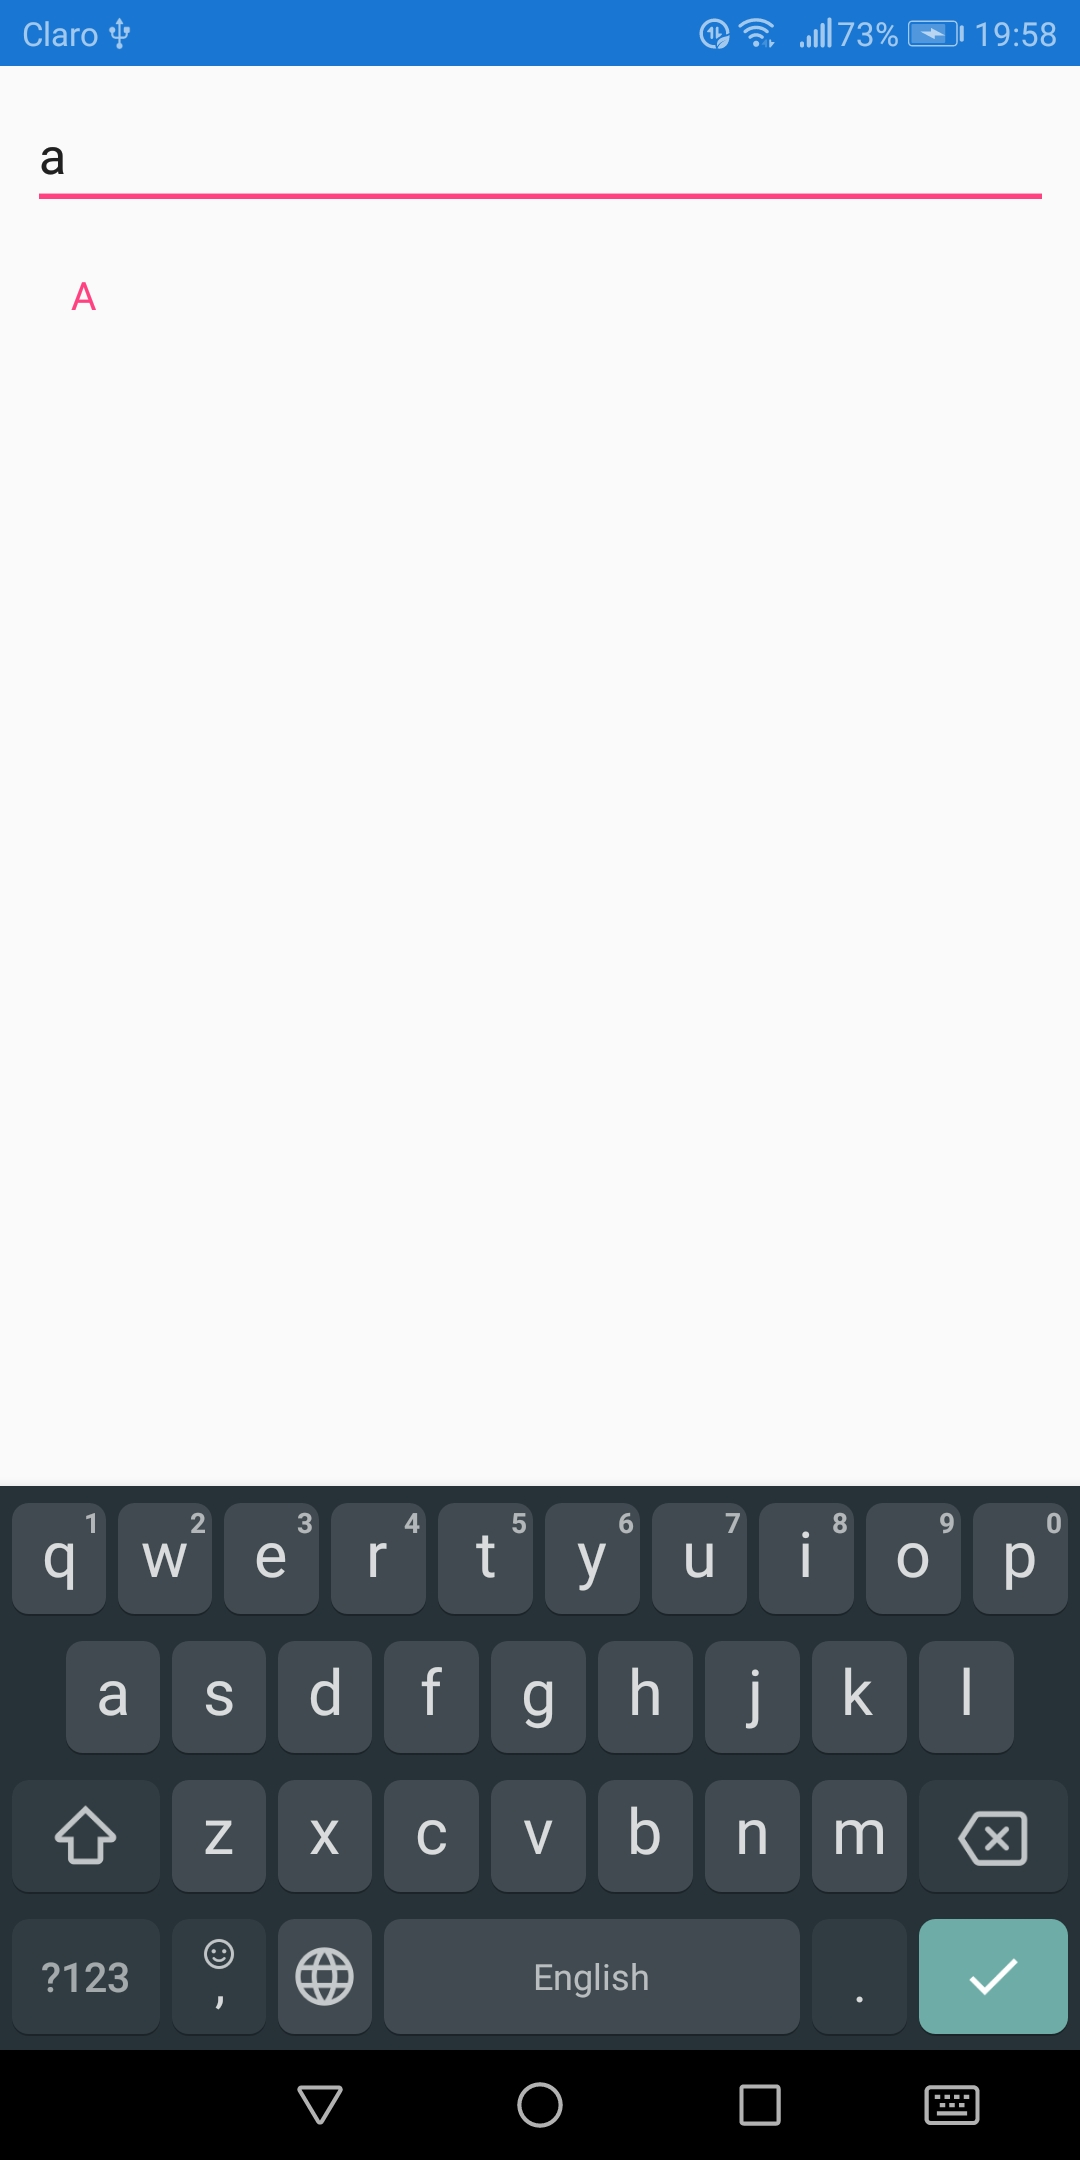
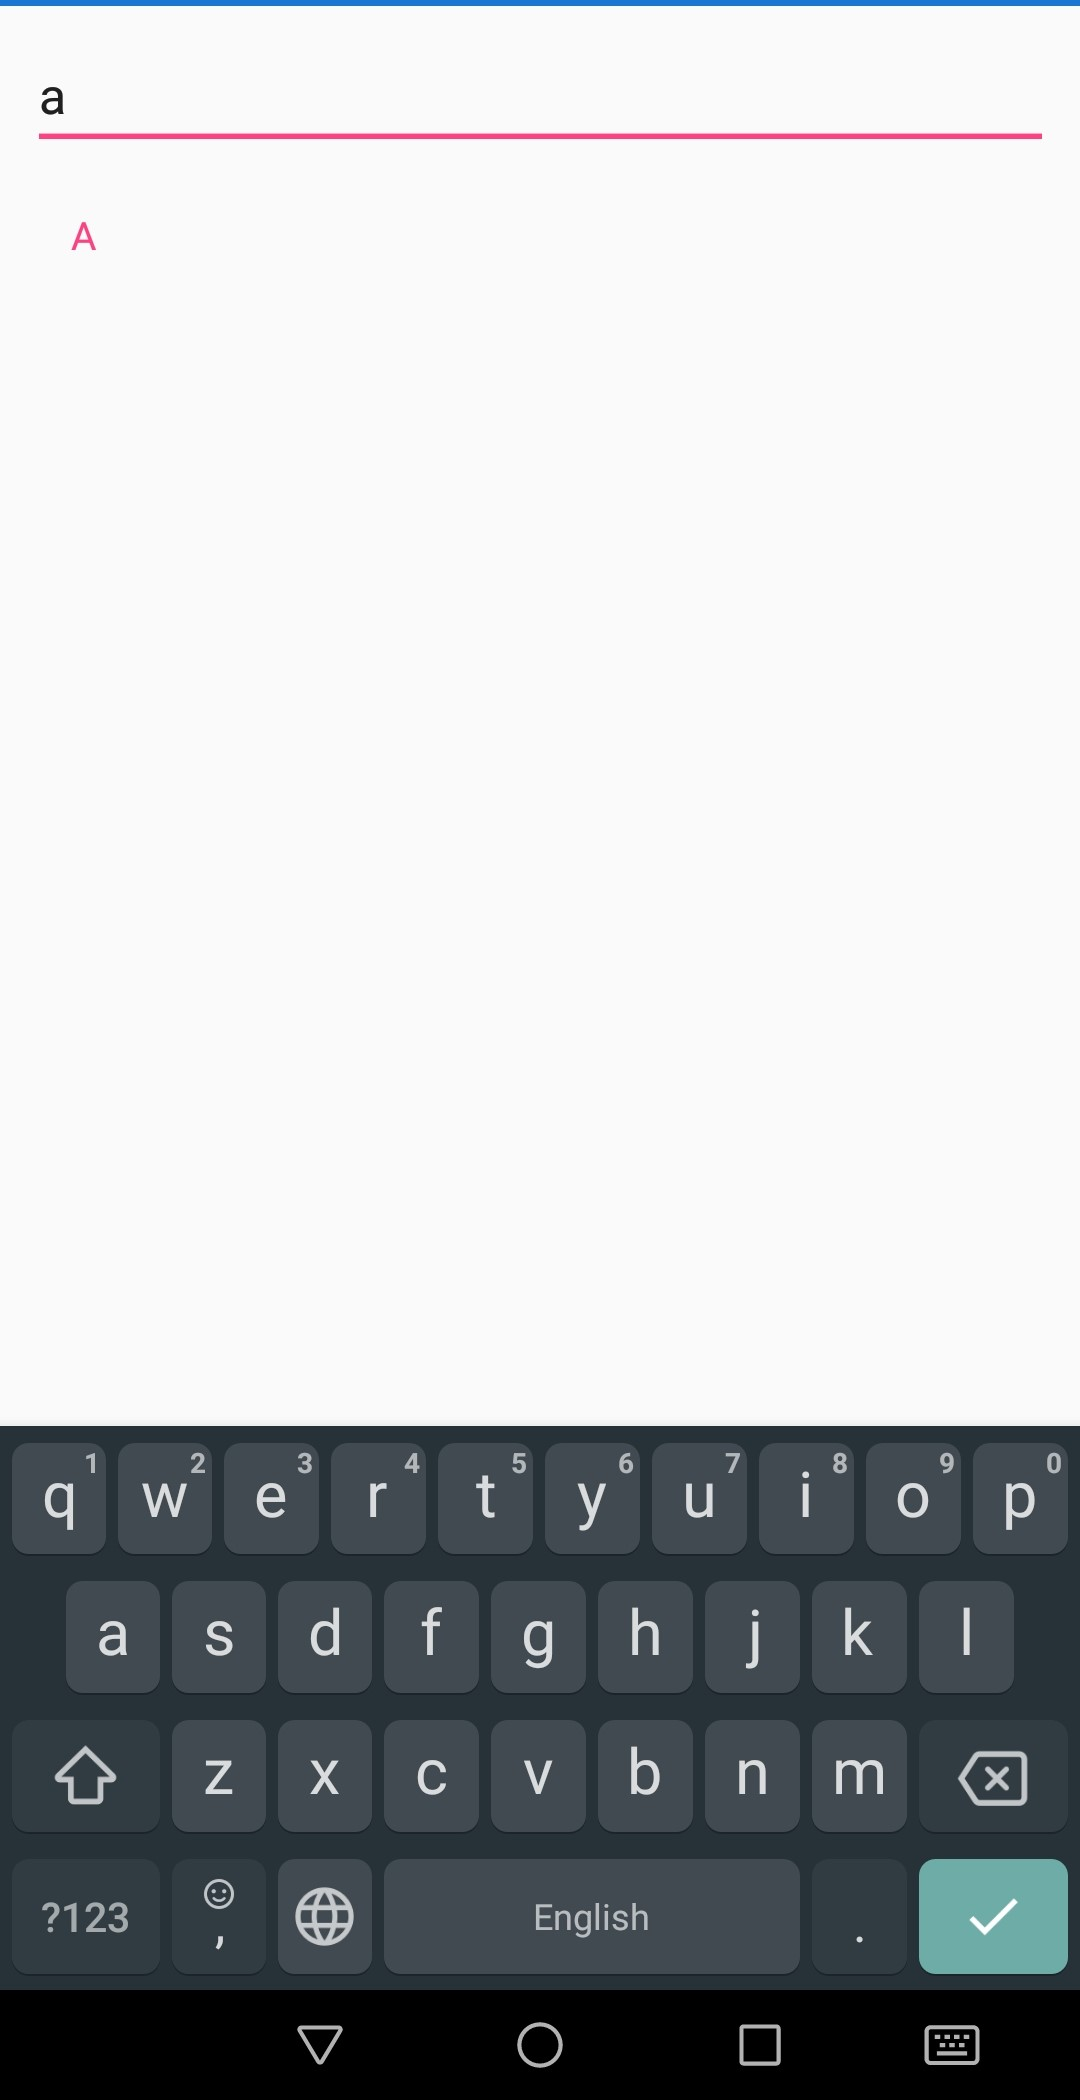
Creating custom data template for display items of autocomplete

diff --git a/Xamforms.Autocomplete.Test/Xamforms.Autocomplete.Test/MainPage.xaml b/Xamforms.Autocomplete.Test/Xamforms.Autocomplete.Test/MainPage.xaml
@@ -3,6 +3,7 @@
              xmlns:x="http://schemas.microsoft.com/winfx/2009/xaml"
              xmlns:views="clr-namespace:XamForms.Controls;assembly=XamForms"
              xmlns:vm="clr-namespace:Xamforms.Autocomplete.Test.ViewModels"
+             xmlns:templates="clr-namespace:Xamforms.Autocomplete.Test.Templates"
              x:Class="Xamforms.Autocomplete.Test.MainPage">
 
     <ContentPage.BindingContext>
@@ -14,6 +15,14 @@
                         SearchCommand="{Binding SerchCommand}"
                         SelectedItemCommand="{Binding SelectItemCommand}"
                         SelectedItem="{Binding SelectedItem, Mode=TwoWay}"
-                        Padding="10"/>
+                        Padding="10">
+        
+        <views:AutoComplete.ItemTemplate>
+            <DataTemplate>
+                <templates:CustomAutocompleteTemplate/>
+            </DataTemplate>
+        </views:AutoComplete.ItemTemplate>
+        
+    </views:AutoComplete>
 
 </ContentPage>

diff --git a/Xamforms.Autocomplete.Test/Xamforms.Autocomplete.Test/Templates/CustomAutocompleteTemplate.xaml b/Xamforms.Autocomplete.Test/Xamforms.Autocomplete.Test/Templates/CustomAutocompleteTemplate.xaml
@@ -1,0 +1,12 @@
+<?xml version="1.0" encoding="UTF-8"?>
+<ViewCell xmlns="http://xamarin.com/schemas/2014/forms" 
+             xmlns:x="http://schemas.microsoft.com/winfx/2009/xaml"
+             x:Class="Xamforms.Autocomplete.Test.Templates.CustomAutocompleteTemplate">
+
+    <ContentView Padding="5">
+        <Frame CornerRadius="5">
+            <Label Text="{Binding}" TextColor="Blue" Margin="0,6,0,6"/>
+        </Frame>        
+    </ContentView>
+    
+</ViewCell>

diff --git a/Xamforms.Autocomplete.Test/Xamforms.Autocomplete.Test/Templates/CustomAutocompleteTemplate.xaml.cs b/Xamforms.Autocomplete.Test/Xamforms.Autocomplete.Test/Templates/CustomAutocompleteTemplate.xaml.cs
@@ -1,0 +1,14 @@
+using Xamarin.Forms;
+using Xamarin.Forms.Xaml;
+
+namespace Xamforms.Autocomplete.Test.Templates
+{
+    [XamlCompilation(XamlCompilationOptions.Compile)]
+	public partial class CustomAutocompleteTemplate: ViewCell
+	{
+		public CustomAutocompleteTemplate ()
+		{
+			InitializeComponent ();
+		}
+	}
+}
